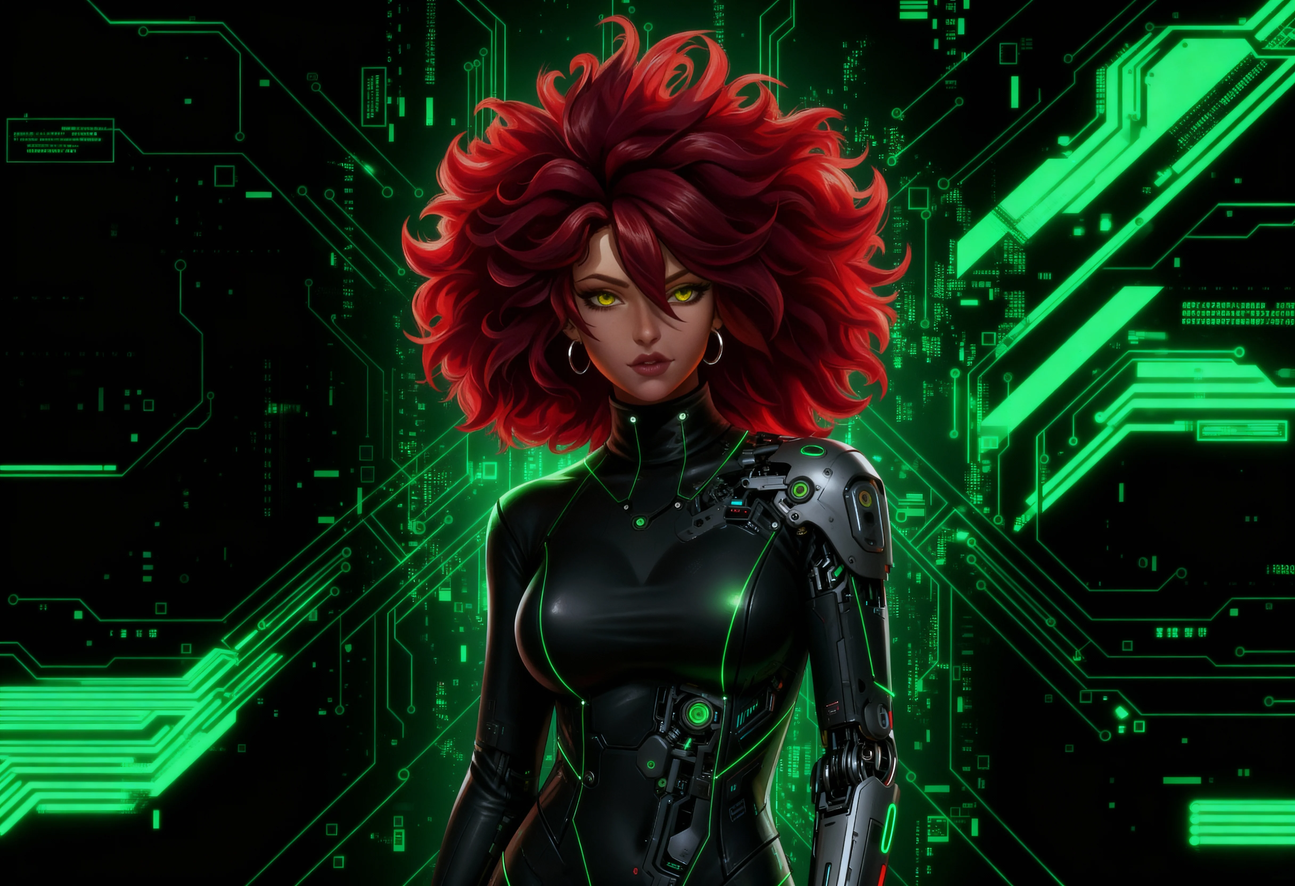
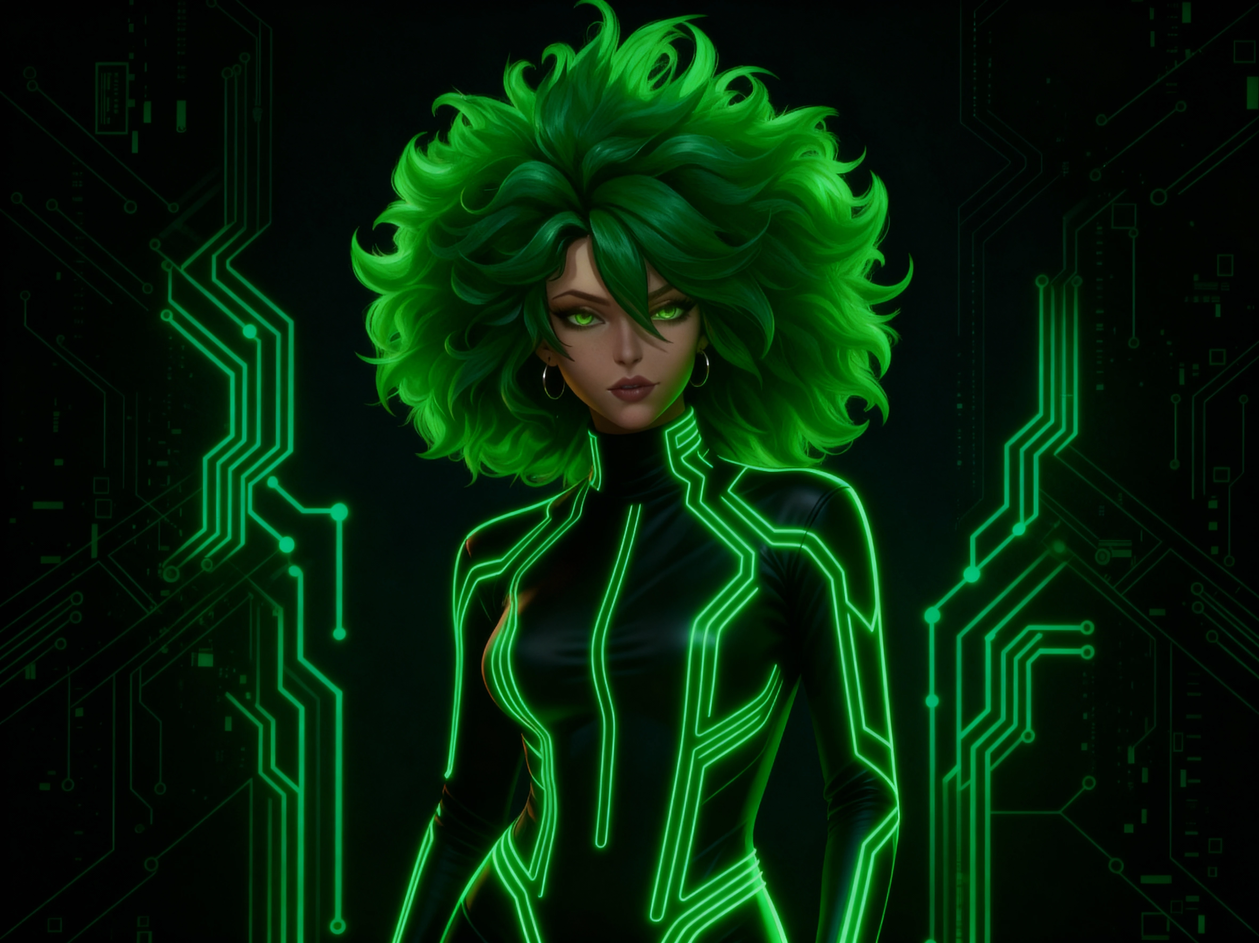
maleniarobo

diff --git a/css/style.css b/css/style.css
@@ -4206,12 +4206,12 @@ width: 90px;
 
 
 .csimg1 {
-  background-image: url(../static/img/malenia3.jpg);
+  background-image: url(../static/img/maleniarobo.webp);
   text-align: center;
   width: 100%;
   height: 80rem;
   background-attachment: fixed;
-  background-position: 51.8% center;
+  background-position: 49% center;
   background-repeat: no-repeat;
   background-size: contain;
   position: relative;
@@ -4395,12 +4395,12 @@ color: #01FF9F;
 
 
 .csimg3 {
-  background-image:  url(../static/img/malenia4.jpg);
+  background-image:  url(../static/img/malenia4.webp);
   text-align: center;
   width: 100%;
   height: 90rem;
   background-attachment: fixed;
-  background-position: 52.5% center;
+  background-position: 51.7% center;
   background-repeat: no-repeat;
   background-size: contain;
   position: relative;
